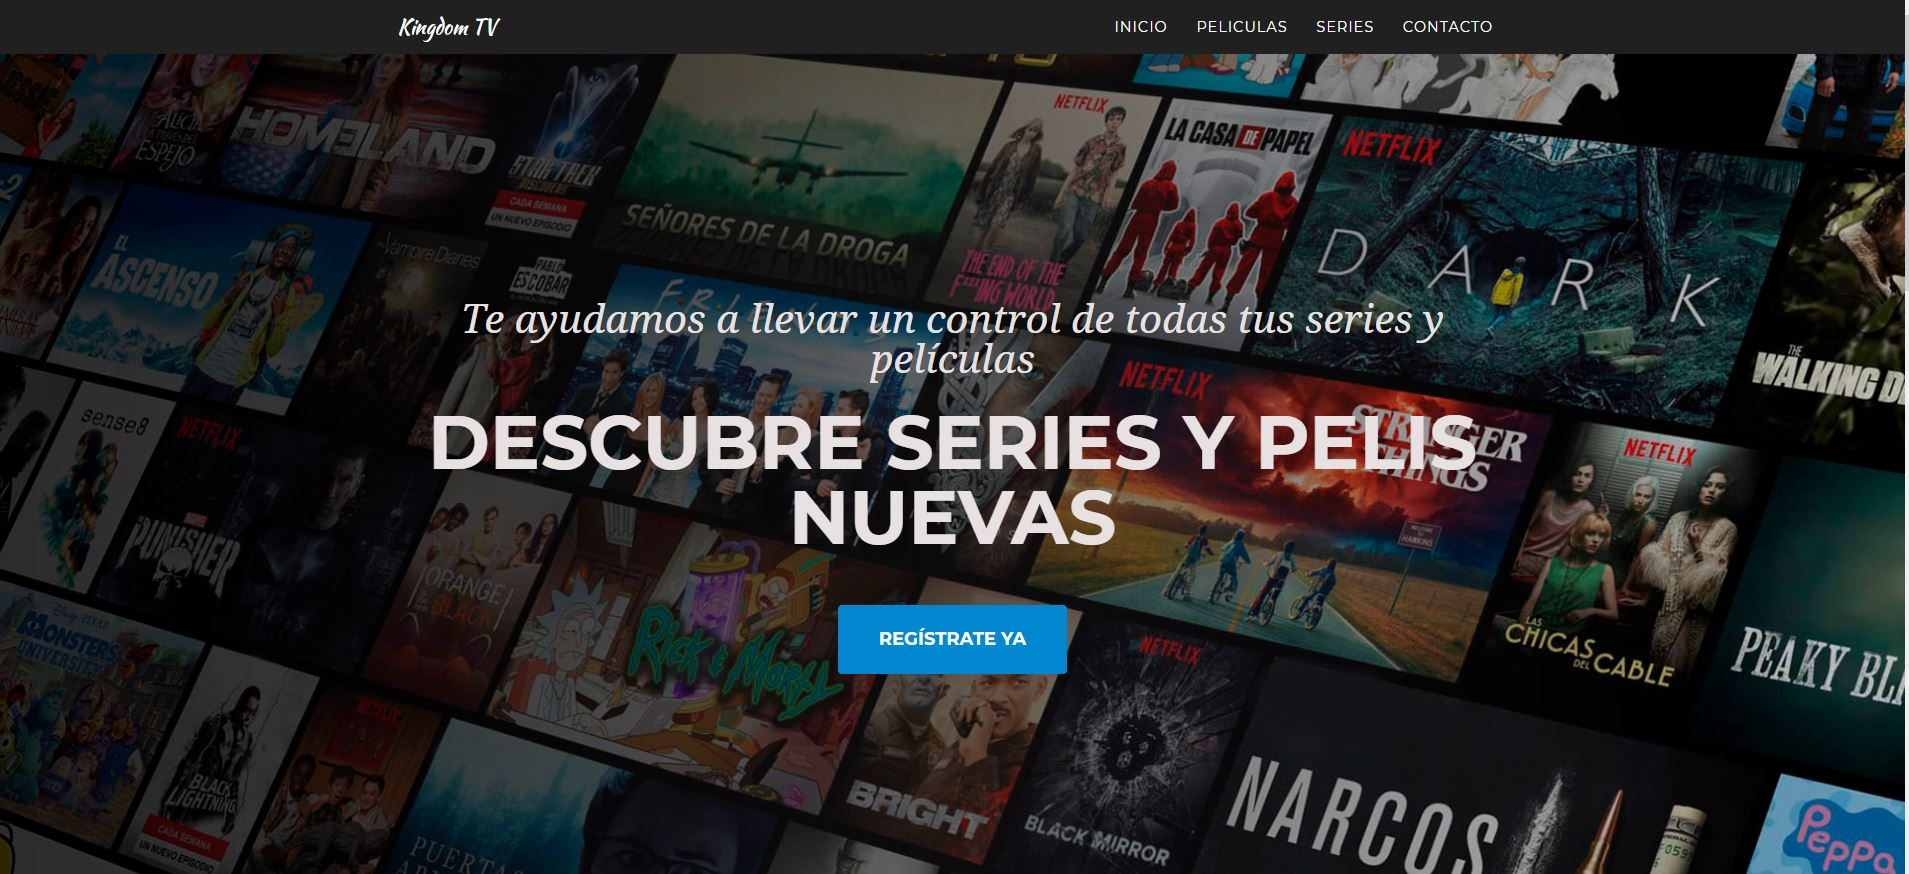
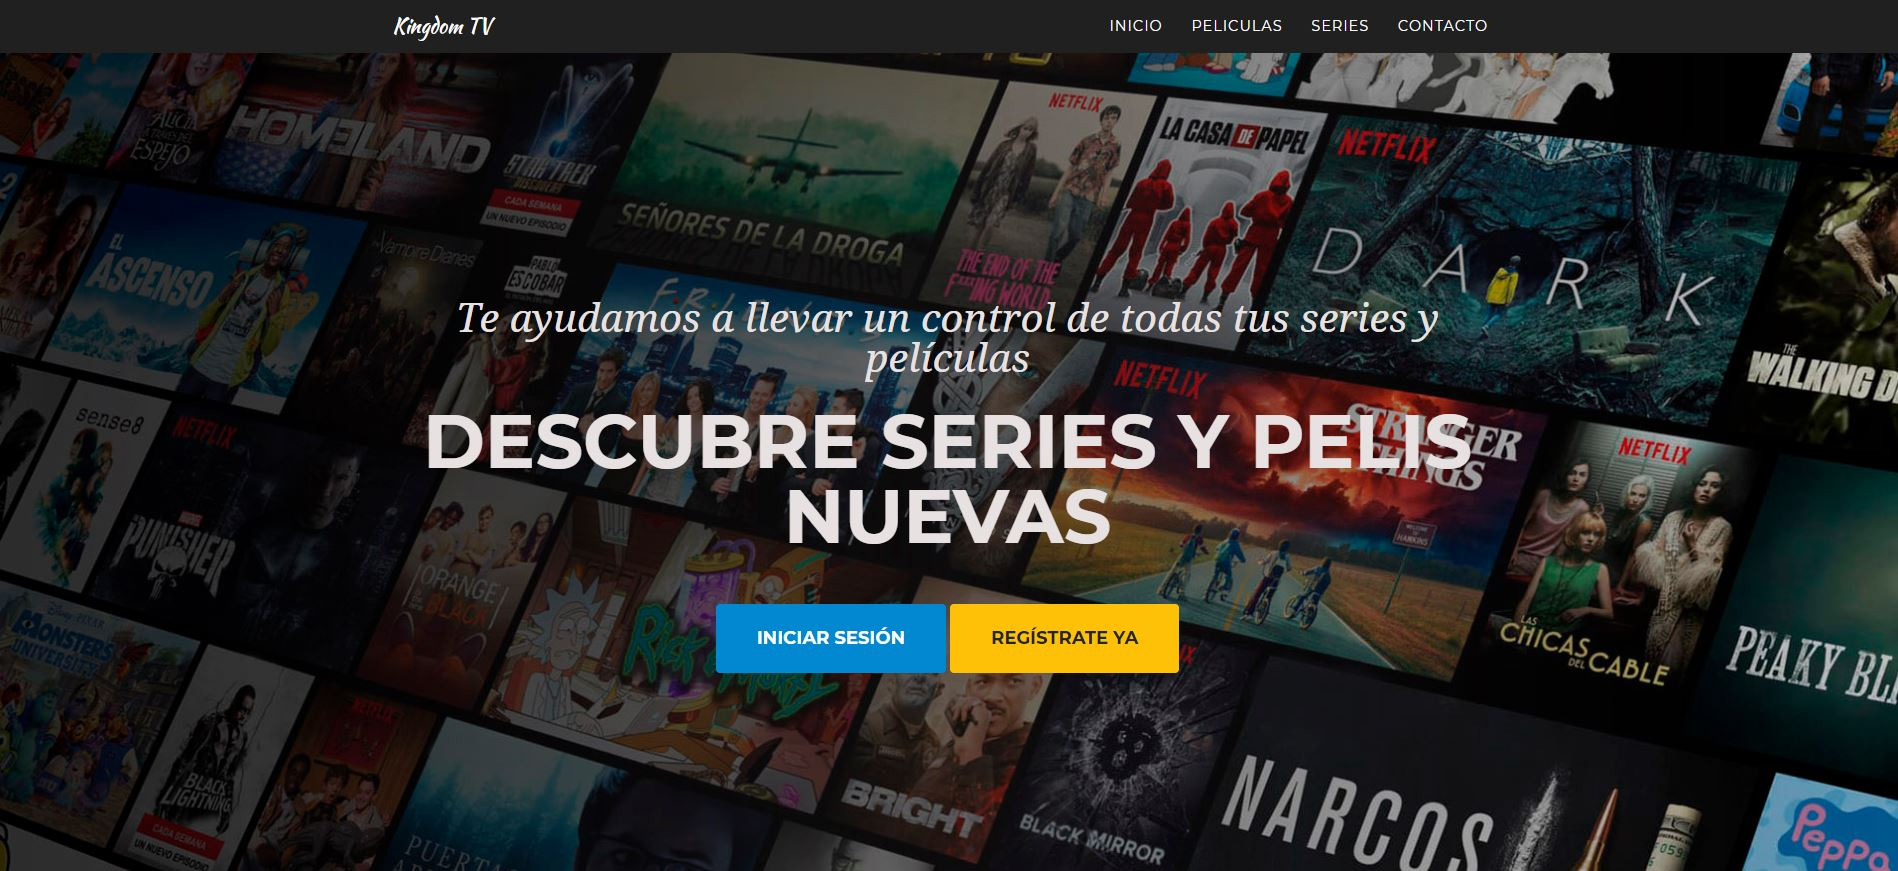
Update
Add diagram navigation on Readme.md
Update pictures

diff --git a/README.md b/README.md
@@ -62,6 +62,10 @@ In this repository we will place our web application, where we can control the i
 	- Send e-mails.
 	- Report spam and report spoiler comments.
 
+### Navigation Diagram
+![alt text](https://github.com/SergioSV96/kingdomTV/blob/master/KingdomTV_ScreenShots/Diagrama_Navegacion.JPG "Diagrama")
+
+
 ### Screenshots
 Screenshots of the pages
 
@@ -88,3 +92,7 @@ Screenshots of the pages
 6. Registro: Here you can register on our website, choosing a username and filling in the requested information.
 
 ![alt text](https://github.com/SergioSV96/kingdomTV/blob/master/KingdomTV_ScreenShots/6.JPG "Registro")
+
+7. Login: Here you can enter your account details and login.
+
+![alt text](https://github.com/SergioSV96/kingdomTV/blob/master/KingdomTV_ScreenShots/7.JPG "Login")
